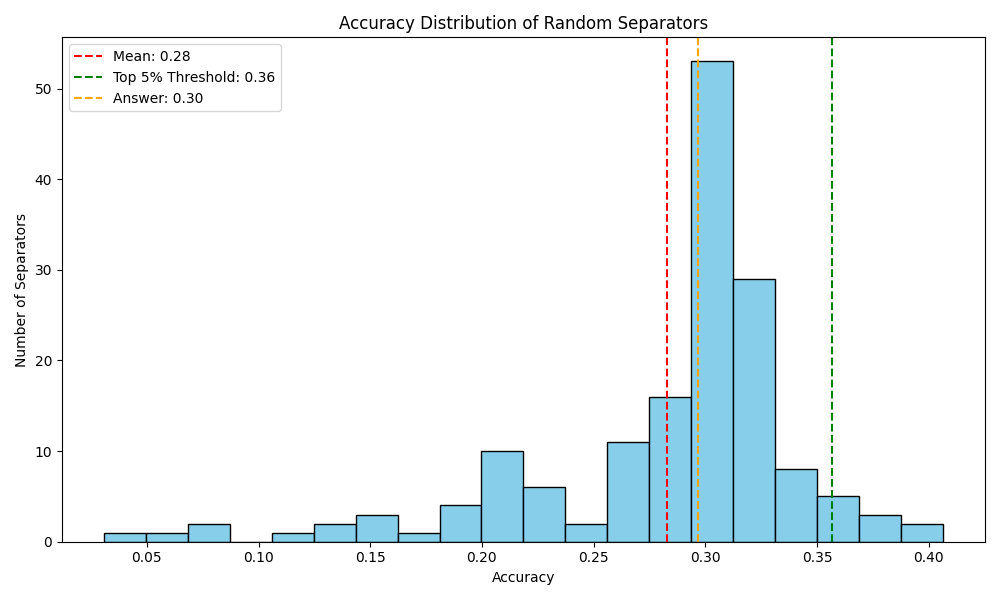
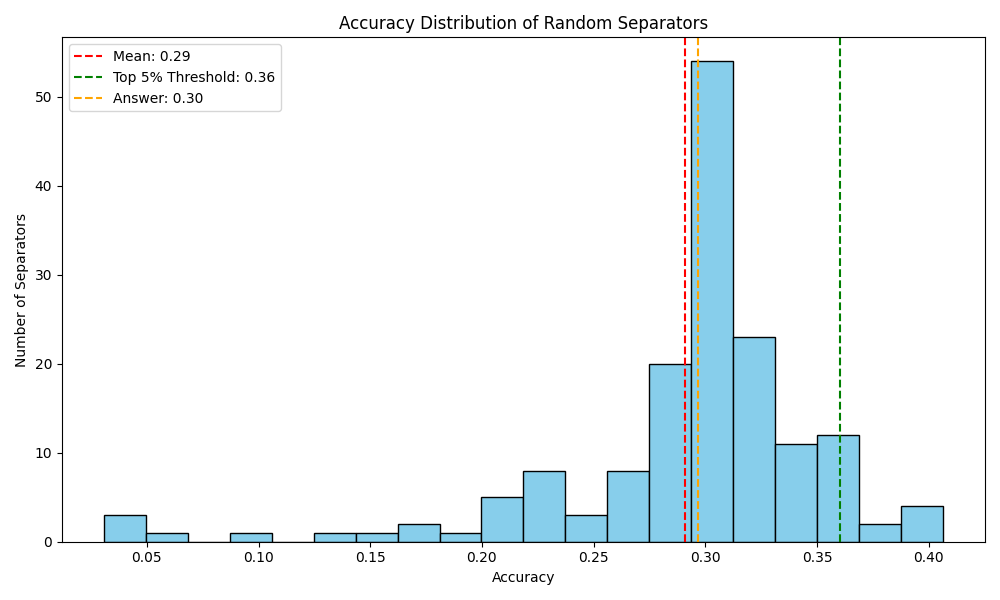
cleaning code

diff --git a/analyze_robustness.py b/analyze_robustness.py
@@ -5,9 +5,9 @@ import pickle
 
 # Load all  saved results
 seeds_results = {}
-dataset_name = "asset" #can be mpqa, sst5, trec and asset
-optimization_mode = "random_wo_context" # random_vocab for mpqa, random_with_context for sst5,  random_wo_context for trec and asset
-safe_model_name = "Qwen__Qwen2.5-0.5B"  #can be gpt2, EleutherAI__pythia-410m, Qwen__Qwen2.5-0.5B, EleutherAI__gpt-neo-125M, HuggingFaceTB__SmolLM2-360M
+dataset_name = "sst5" #can be mpqa, sst5, trec and asset
+optimization_mode = "random_with_context" # random_vocab for mpqa, random_with_context for sst5,  random_wo_context for trec and asset
+safe_model_name = "gpt2"  #can be gpt2, EleutherAI__pythia-410m, Qwen__Qwen2.5-0.5B, EleutherAI__gpt-neo-125M, HuggingFaceTB__SmolLM2-360M
    
 for seed in [1,2,3,4,5]:
     with open(f'robustness_results_{dataset_name}_{optimization_mode}_{seed}_{safe_model_name}.pkl', 'rb') as f:
